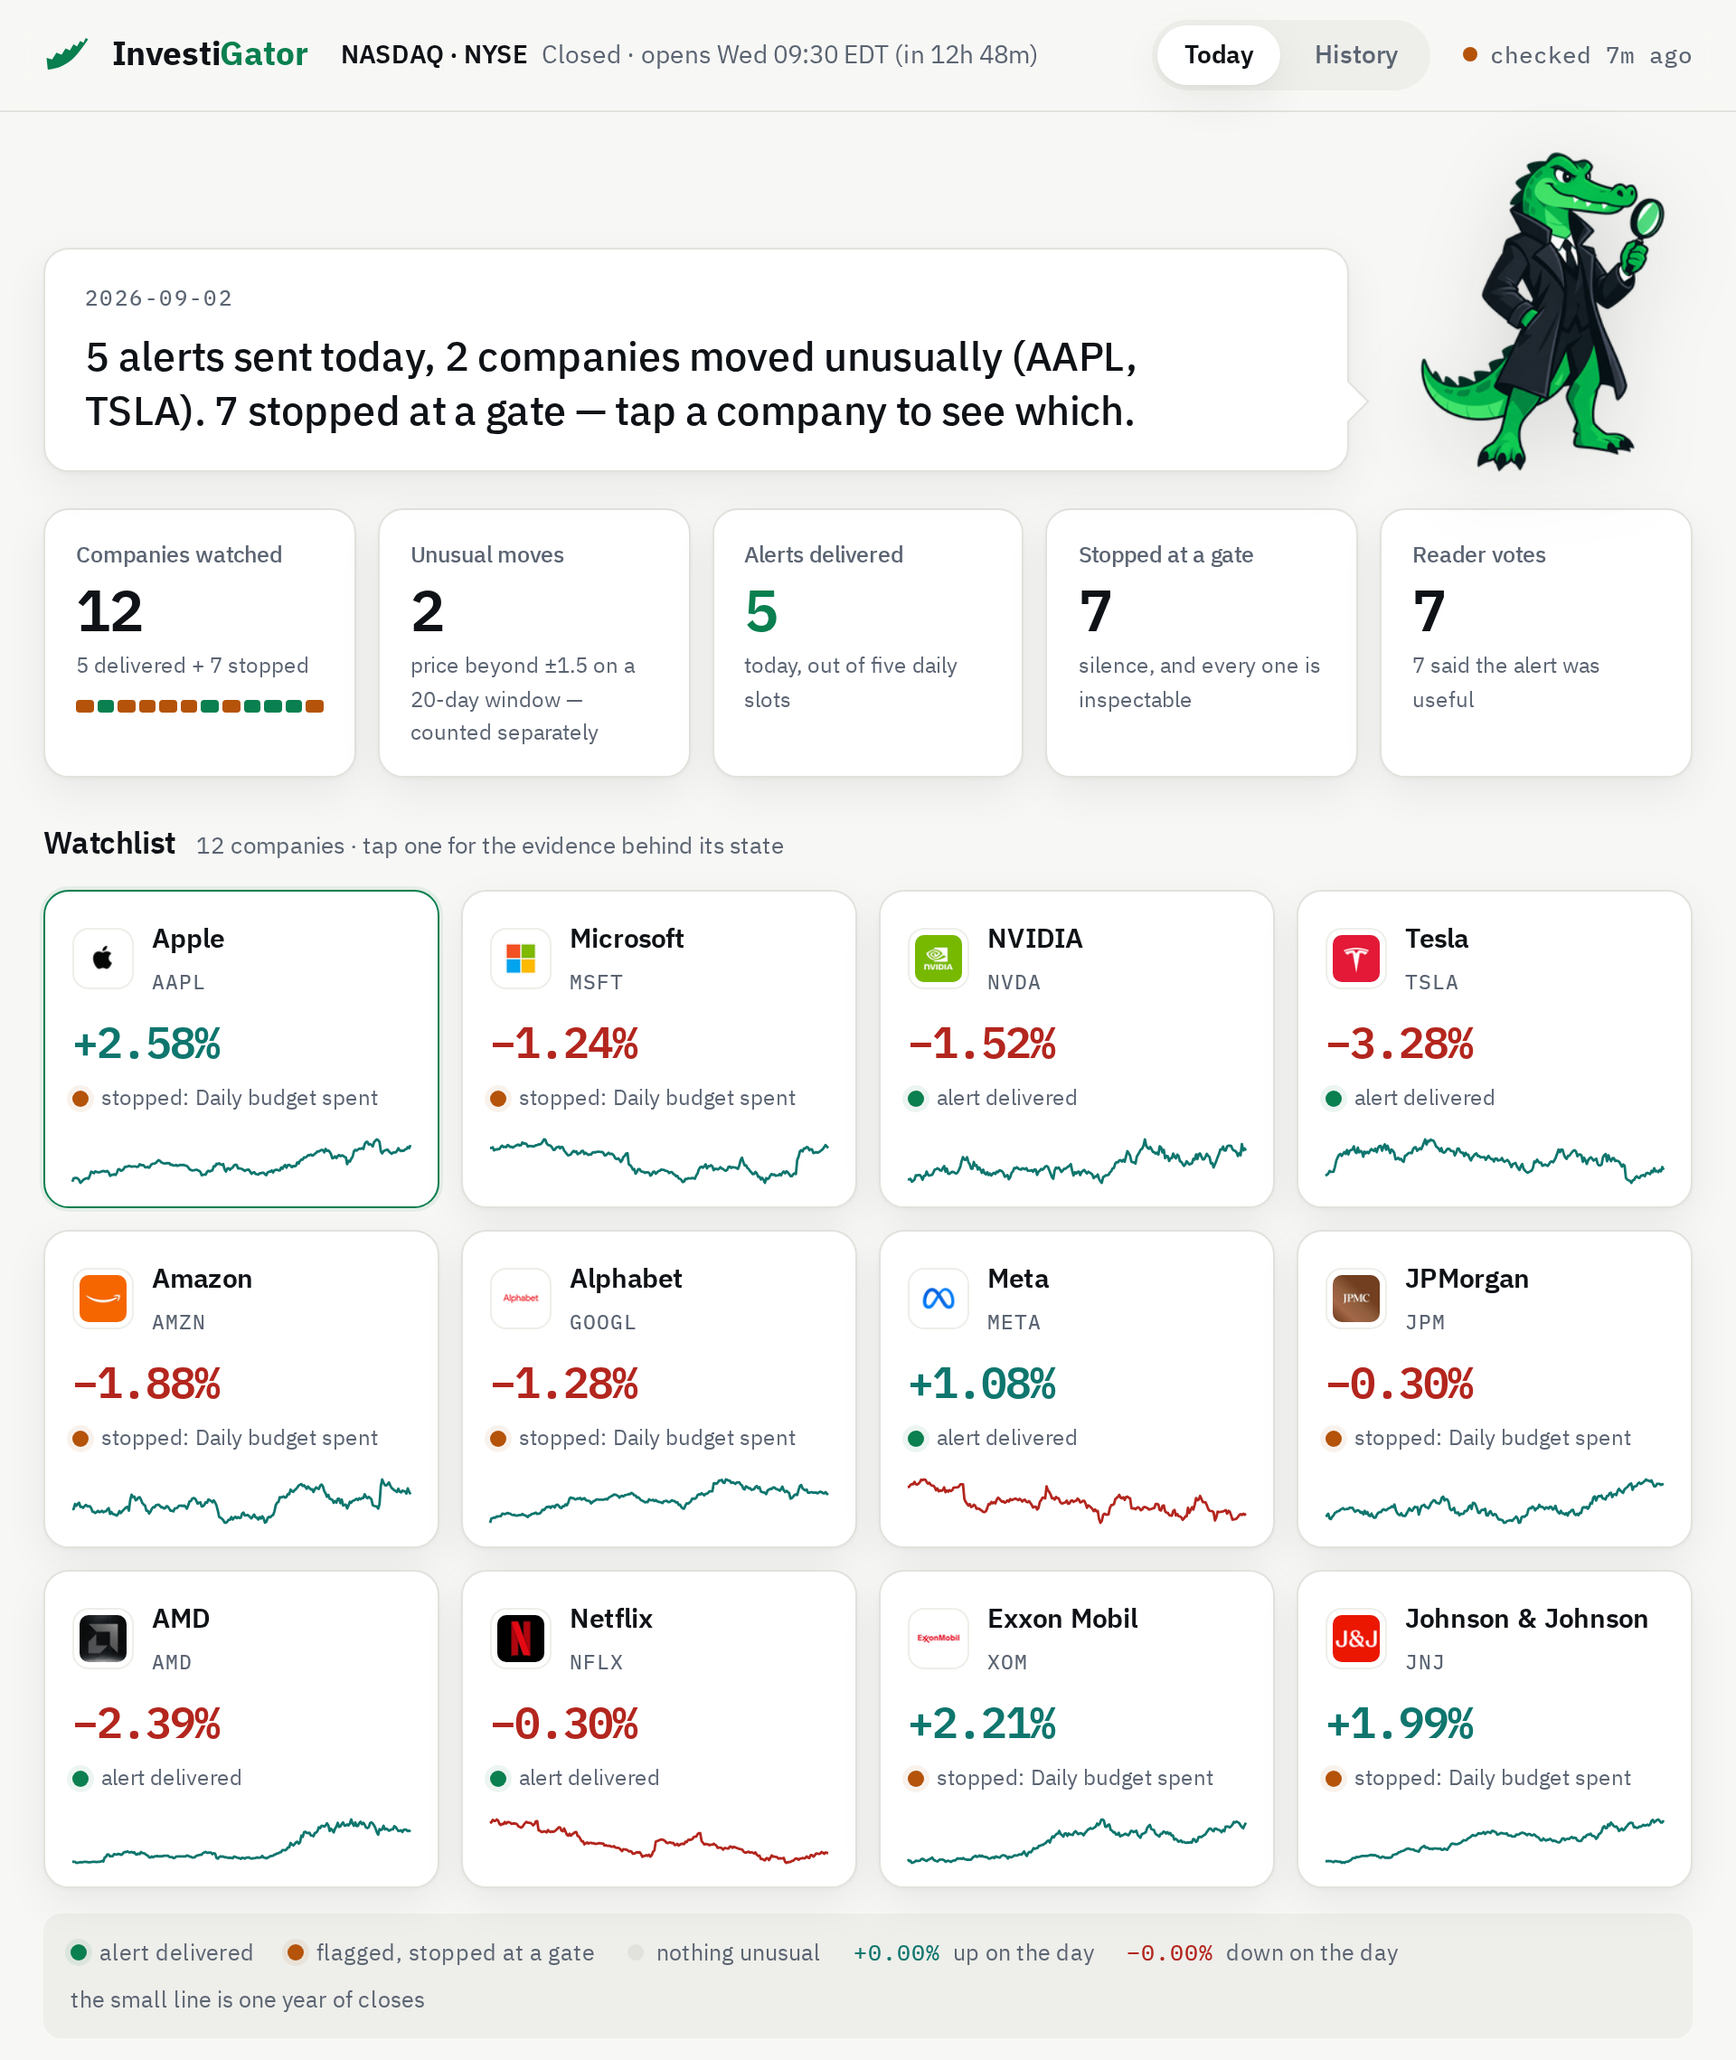
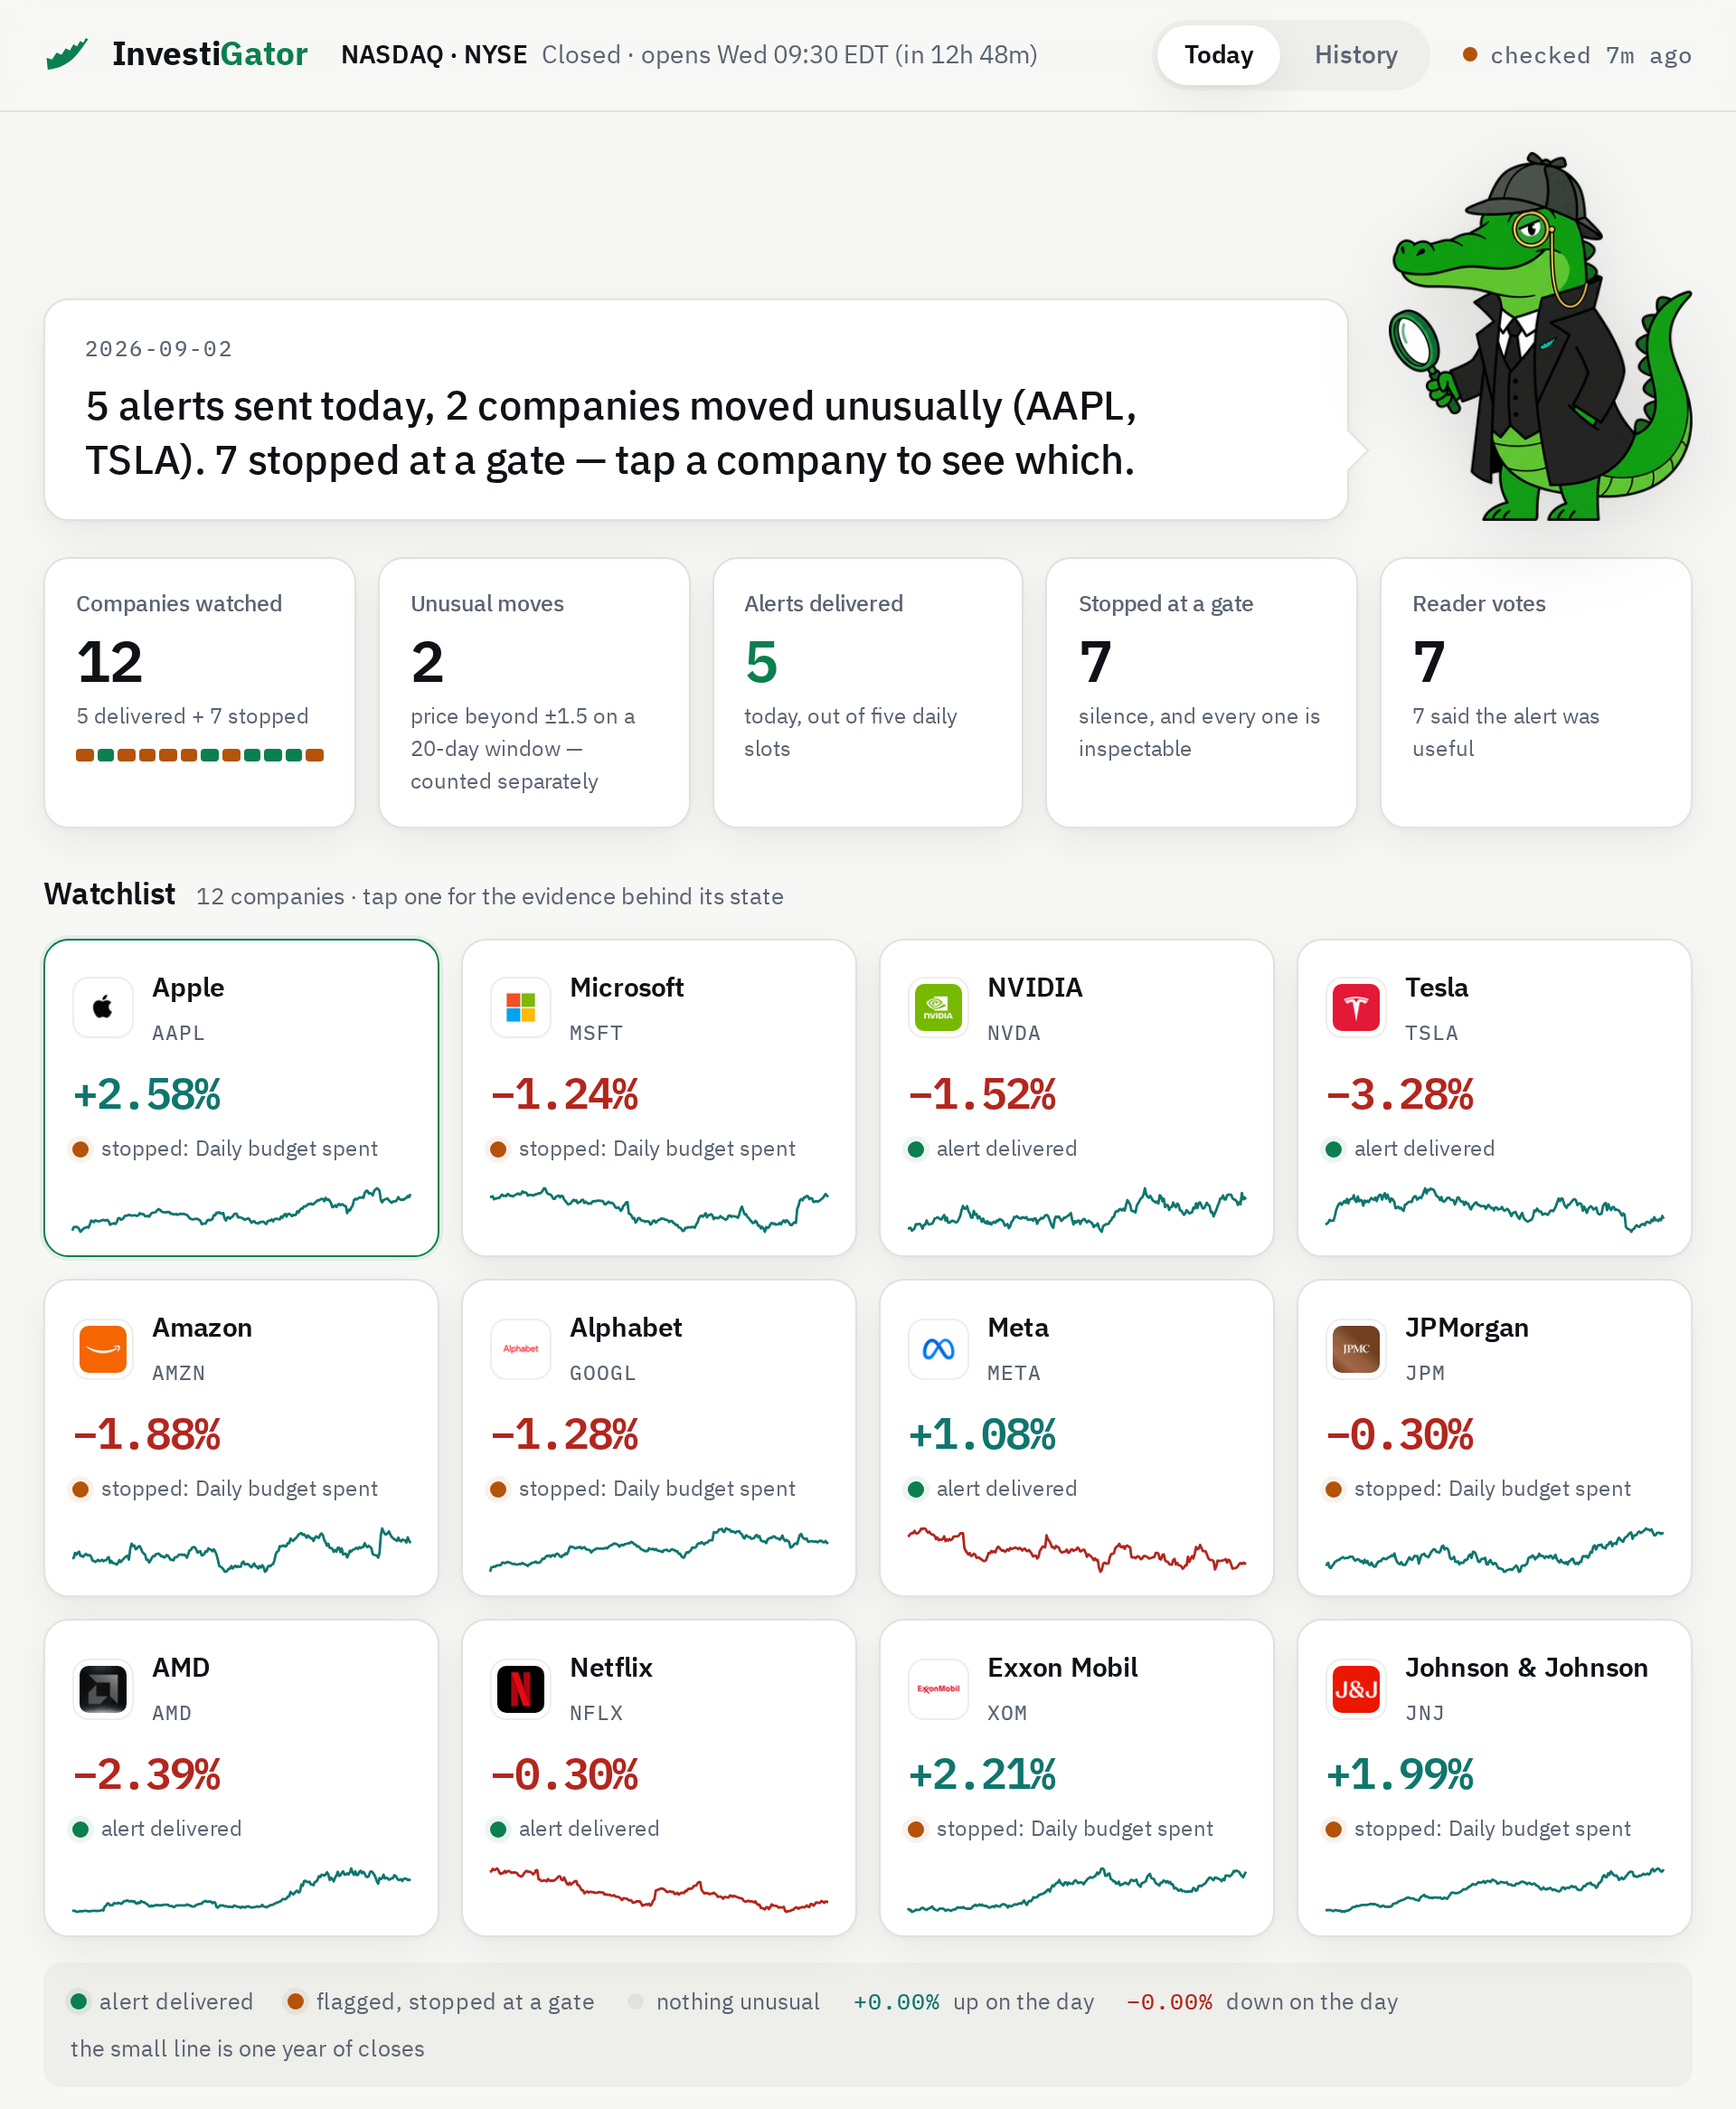
Mascote: refeita de raiz, virada para o balão, com lupa, monóculo e chapéu
Três notas do autor, todas atendidas, e uma tentativa descartada pelo caminho.

**Virado para a esquerda.** O balão de fala está à esquerda da mascote, e ela
olhava para o lado contrário. Agora olha para o que diz.

**Chapéu à Sherlock e monóculo.** A primeira tentativa foi desenhar os
acessórios como uma camada por cima da arte existente. Ficou a parecer o que
era — um autocolante colado numa cabeça que não o esperava. A arte foi
refeita inteira, com os acessórios desenhados como parte da personagem.

**O logótipo ao peito.** O emblema na lapela é a cauda do InvestiGator, a
mesma forma que está no cabeçalho da página, e não um desenho aproximado: o
gerador tinha posto lá um jacarezinho, que foi retirado e substituído pelo
caminho vetorial real da marca.

O verde foi puxado para o da marca. A versão como saiu do gerador, mais
azeitona, fica em `docs/design/marca/` para o caso de ele preferir essa — não
em `web/assets/`, que só serve o que a página usa.

A figura 4.6 do capítulo 4 foi regerada com a mascote nova. Tese: 0 erros, 0
referências por resolver, 126 páginas.

Claude-Session: https://claude.ai/code/session_01MxeyFPV1dA1vkr92wXzTpz

diff --git a/web/index.html b/web/index.html
@@ -355,7 +355,7 @@
       <div class="dia" id="dataHoje">—</div>
       <p id="frase">Reading the day…</p>
     </div>
-    <img class="mascote" src="/assets/mascote-small.png" alt="" width="260" height="274">
+    <img class="mascote" src="/assets/mascote-small.png" alt="" width="313" height="380">
   </section>
 
   <dl class="kpis" id="kpis"></dl>
